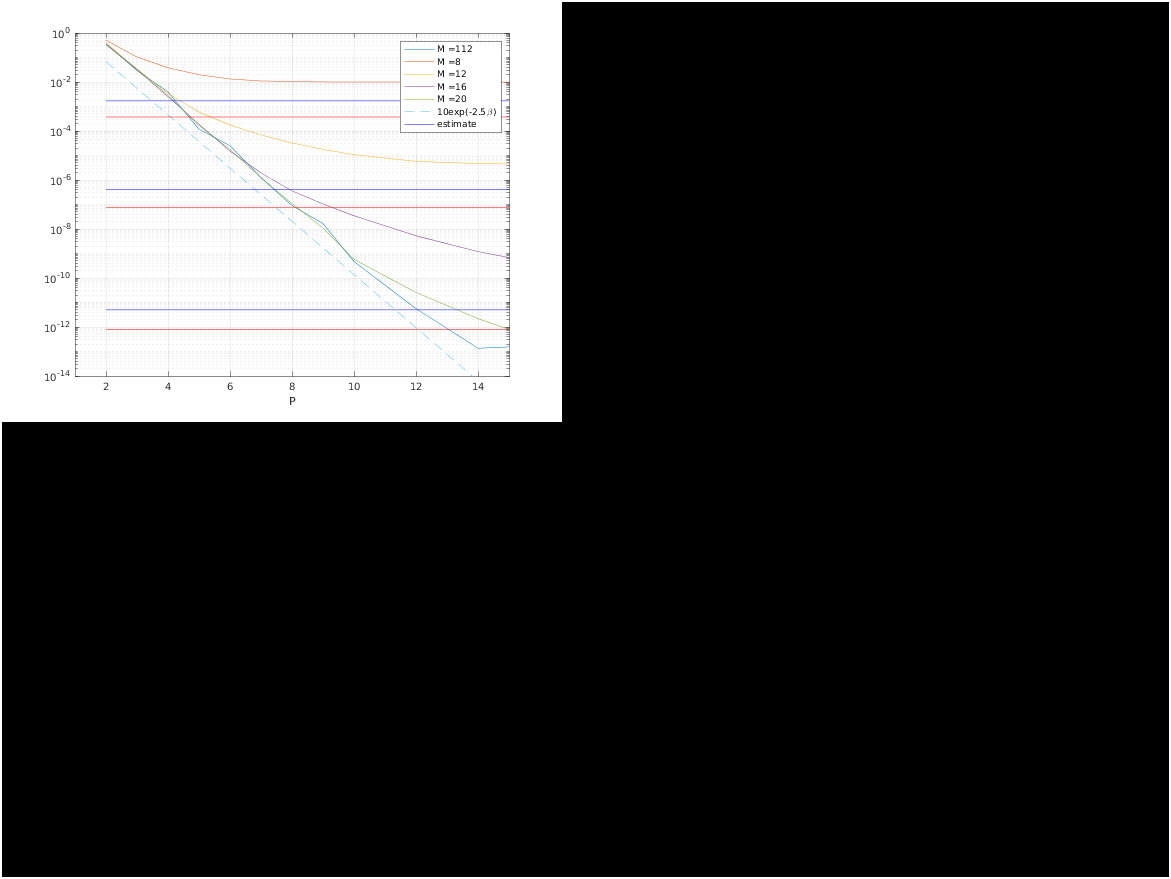
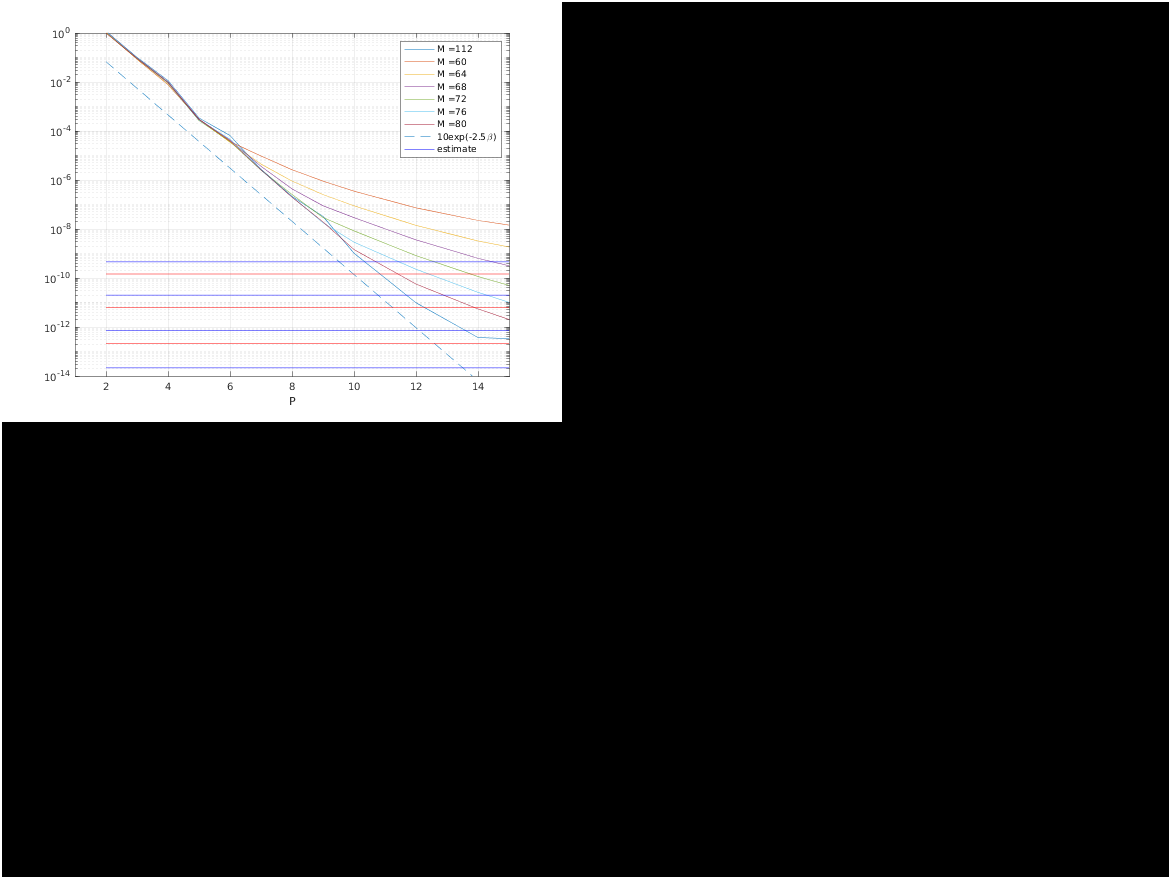
imgs

diff --git a/SE_Stokes_run/SE3P_Stokes/P_error.m b/SE_Stokes_run/SE3P_Stokes/P_error.m
@@ -17,7 +17,7 @@ opt.box = box;
 
 M0 = 128; % Set M0=M/L, the restu * 1+ is automatic
 opt.M = M0*[1,1,1];
-opt.xi = 5;
+opt.xi = 20;
 opt.betaP = 2.5;
 opt.c = sqrt(0.91);
 %opt.window = 'kaiser_exact';
@@ -45,7 +45,7 @@ end
 %ref = SE3P_Stokes(1:N,x,f,opt);
 rms_ref = rmse(ref);
 %% Compare solutions with changing P
-MM = 8:4:20;
+MM = 60:4:80;
 str = {};
 est_old = @(M,xi,L,f) sqrt(f)*(xi^3*L^2/(pi^4*(M/2)^(3/2)))*exp(-(pi*(M/2)/(xi*L))^2);
 %est = @(M,xi,L,f) sqrt(f)*(4/(3^(1/4)*L*pi))*exp(-(pi*M/(xi*L*2))^2);
